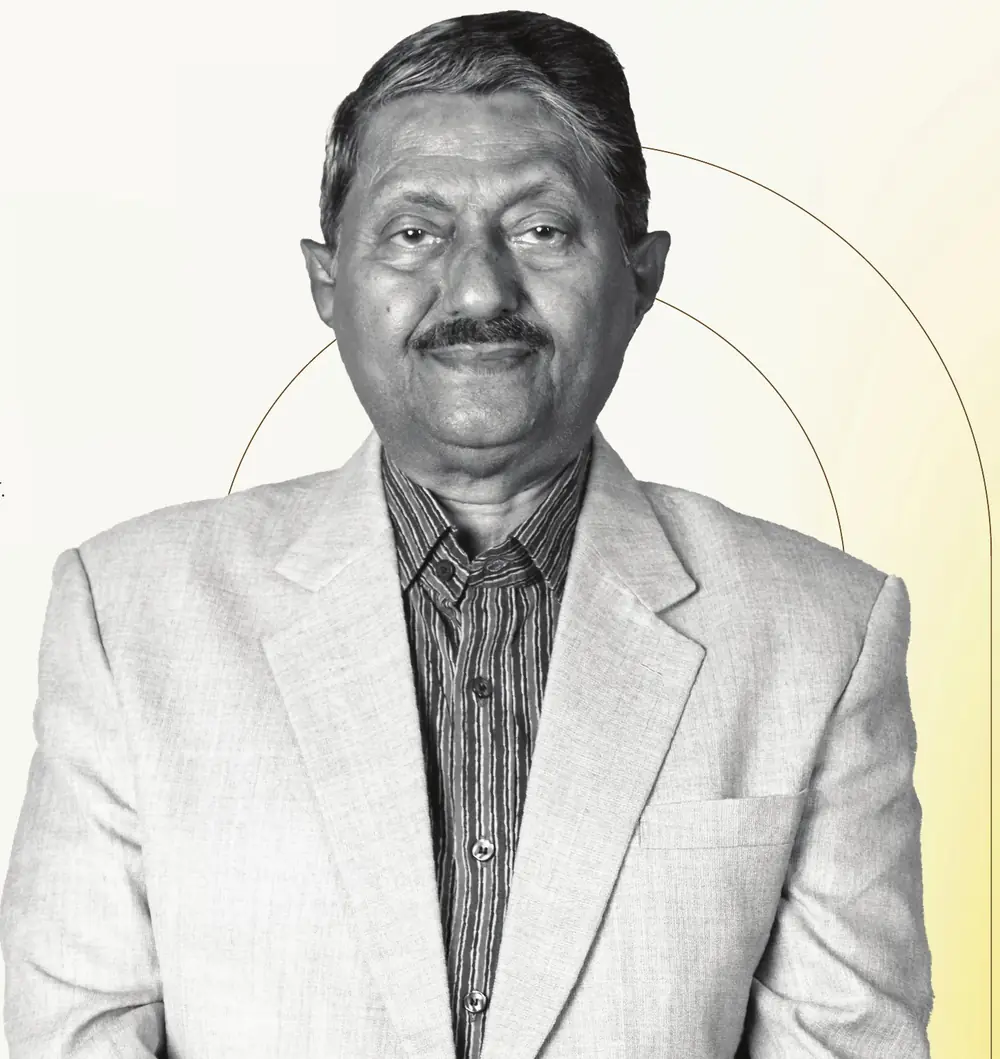
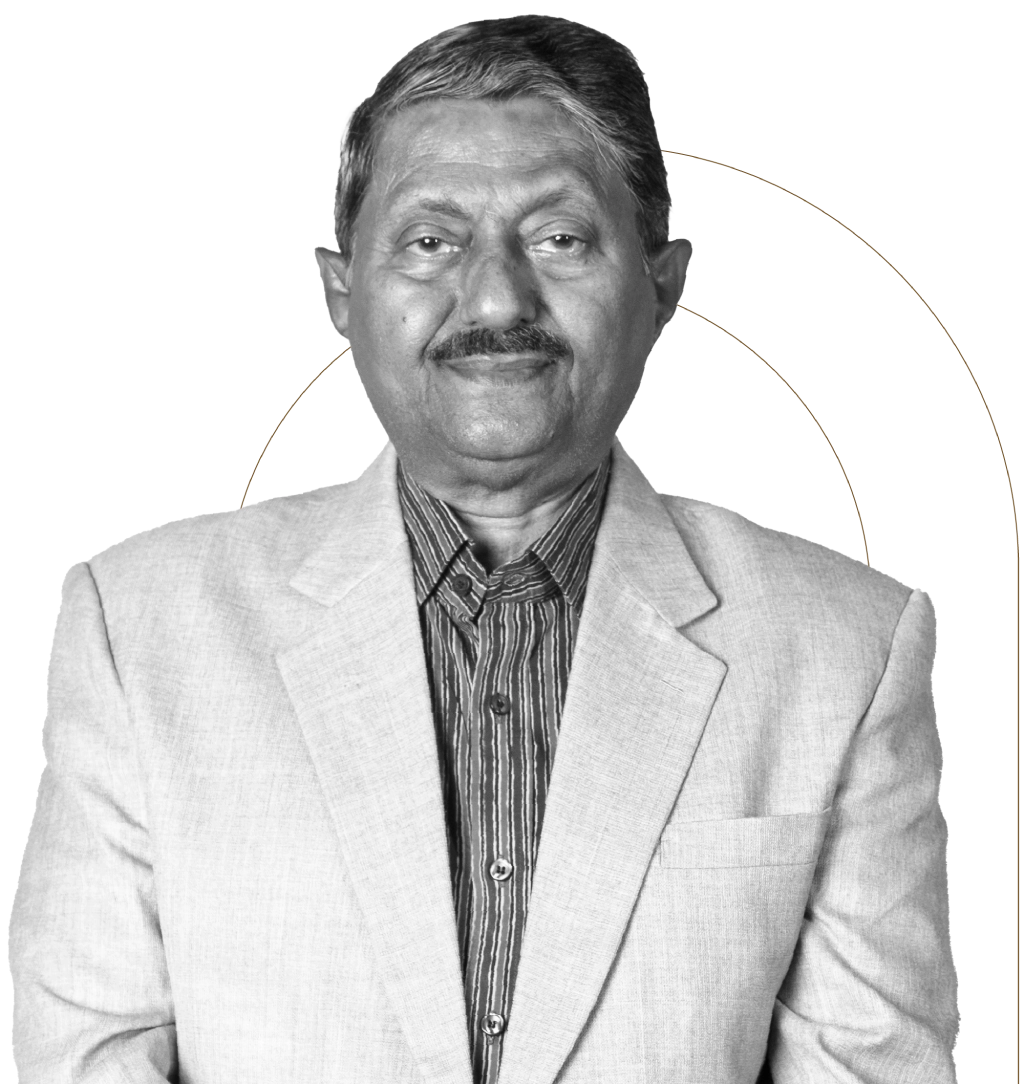
new chnages applied

diff --git a/src/styles/global.css b/src/styles/global.css
@@ -1,4 +1,6 @@
-
+/* Layout concept: the investor deck turned into a scroll — sunset-gradient
+   "cover" panels alternate with calm cream "slides"; arches, hairlines with
+   circle terminals and pill counters carry the deck's language onto the web. */
 @font-face{font-family:"Recife Display";src:local("Recife Display"),local("RecifeDisplay-Regular"),local("Recife Display Regular"),url("/fonts/RecifeDisplay-400.woff2") format("woff2");font-weight:400;font-display:swap}
 @font-face{font-family:"Recife Display";src:local("Recife Display Light"),local("RecifeDisplay-Light"),url("/fonts/RecifeDisplay-300.woff2") format("woff2");font-weight:300;font-display:swap}
 @font-face{font-family:"Recife Display";src:local("Recife Display Medium"),local("RecifeDisplay-Medium"),url("/fonts/RecifeDisplay-500.woff2") format("woff2");font-weight:500;font-display:swap}
@@ -133,12 +135,13 @@ p{margin:0}
 .hero-head{margin:auto 0}
 .hero-head .kicker{margin-bottom:clamp(14px,3svh,32px)}
 
-/* One composition on every screen: the headline is a 9em-wide block that scales with the content width
-   (100cqw / 9), so "Live [film] free." sits left and "Age gracefully." hangs right in the same proportions
-   from phone to 4K. On short, wide windows it's capped by height and the whole block just shrinks. */
-.hero h1{margin:0;width:9em;max-width:100%;font-size:min(calc(100cqw / 9),21svh);font-weight:300;line-height:.9;letter-spacing:-.04em}
+/* One composition on every screen: line 1 "Live [film] free." starts flush left, line 2 "Age gracefully."
+   is indented 1.55em under it (a gentle stagger, not pushed to the far right). The block is 7.2em wide and
+   scales with the content width (100cqw / 7.2), so the stagger holds from phone to 4K; on short windows the
+   height cap (19svh) wins and the whole block just shrinks. Tweak the stagger with --l2-indent. */
+.hero h1{--l2-indent:1.55em;margin:0;width:7.2em;max-width:100%;font-size:min(calc(100cqw / 7.2),19svh);font-weight:300;line-height:1.04;letter-spacing:-.04em}
 .hl{display:block}
-.hl.l2{text-align:right;color:var(--sun)}
+.hl.l2{padding-left:var(--l2-indent);color:var(--sun)}
 .hw{display:inline-block;overflow:hidden;vertical-align:top;padding:.06em .08em .18em 0;margin:-.06em -.08em -.18em 0}
 .hw>span{display:block;transform:translateY(112%) rotate(5deg);transform-origin:0 100%}
 .hero.go .hw>span{animation:hrise 1.35s var(--ease) both;animation-delay:var(--d,0s)}
@@ -238,21 +241,34 @@ html[data-hero-pin="on"] .mcta.show{transform:translateY(110%)}
   mask-image:linear-gradient(to right,transparent,#000 14%,#000 86%,transparent),linear-gradient(to bottom,transparent,#000 7%,#000 88%,transparent);
   mask-composite:intersect}
 .gstats{--num:clamp(3rem,5.4vw,5.2rem);position:relative;z-index:2;display:grid;gap:clamp(48px,8vw,140px)}
-.gstat{position:relative;display:grid;gap:6px}
+.gstat{position:relative;display:grid}
+.gtext{display:grid;gap:6px}
 .gstat b{font:400 var(--num)/1 var(--display);color:var(--crimson);letter-spacing:-.03em}
 .gstat b small{font:500 .36em var(--display);letter-spacing:0;margin-left:.2em}
 .gstat span{font-weight:700;font-size:1.06rem}
 .gstat i{font-style:normal;color:var(--ink-soft);font-size:.96rem}
 .gstat .conn{display:none}
 @media (min-width:1000px){
-  /* both columns are mirror images: text hugs the render, a ringed connector links it to the building */
-  .gstats{--gap:24px;--reach:46px}
-  .gstats.l .gstat{padding-right:44px;text-align:right;justify-items:end}
-  .gstats.r .gstat{padding-left:44px}
-  .gstat .conn{display:block;position:absolute;top:calc(var(--num) * .5);height:1.5px;background:var(--crimson);
-    width:calc(var(--gap) + var(--reach));transform:scaleX(0);transition:transform 1.2s var(--ease)}
-  .gstats.l .gstat .conn{left:calc(100% - var(--gap));transform-origin:left}
-  .gstats.r .gstat .conn{right:calc(100% - var(--gap));transform-origin:right}
+  /* both columns are mirror images: the stats sit at the outer edges of the page and a ringed
+     connector stretches across the leftover space to the building, so the lines grow with the
+     screen instead of leaving blank space on the sides.
+     Each column is a 2-track grid (text | line); the stats share it via subgrid, so the two numbers
+     in a column stay aligned and their lines are the same length. */
+  /* --bal (set by Glance.jsx): the left stats are narrower than the right ones, which leaves more blank
+     space on the left. Slide the whole grid left by half the difference so both outer margins match. */
+  .glance-grid{transform:translateX(calc(-1 * var(--bal, 0px)))}
+  .gstats{--gap:20px;--reach:46px;--min-line:44px;column-gap:0}
+  .gstats.l{grid-template-columns:var(--tw,max-content) minmax(var(--min-line),1fr)}
+  .gstats.r{grid-template-columns:minmax(var(--min-line),1fr) var(--tw,max-content)}
+  .gstat{grid-column:1/-1;grid-template-columns:subgrid}
+  .gtext{width:max-content}
+  .gstat b{white-space:nowrap}
+  .gstats.l .gtext{grid-column:1;justify-self:end;text-align:right;justify-items:end}
+  .gstats.r .gtext{grid-column:2;justify-self:start}
+  .gstat .conn{display:block;position:relative;grid-row:1;align-self:start;margin-top:calc(var(--num) * .5);height:1.5px;background:var(--crimson);
+    transform:scaleX(0);transition:transform 1.2s var(--ease)}
+  .gstats.l .gstat .conn{grid-column:2;margin-left:var(--gap);margin-right:calc(-1 * var(--reach));transform-origin:left}
+  .gstats.r .gstat .conn{grid-column:1;margin-right:var(--gap);margin-left:calc(-1 * var(--reach));transform-origin:right}
   /* ring at the text end */
   .gstat .conn::before{content:"";position:absolute;top:-6px;width:13px;height:13px;border-radius:50%;border:1.5px solid var(--crimson);background:#FBF4E4}
   .gstats.l .conn::before{left:-12px}
@@ -320,16 +336,21 @@ html[data-hero-pin="on"] .mcta.show{transform:translateY(110%)}
 .lift b{color:#FFF8E6}
 .lv-right{padding:clamp(72px,10vw,150px) var(--gutr) clamp(72px,10vw,150px) var(--gut)}
 @media (min-width:1000px){.lv-right{padding-left:80px;padding-right:max(56px,env(safe-area-inset-right,0px))}}
-.tl{position:relative;list-style:none;margin:0;padding:0}
-.tl::before{content:"";position:absolute;left:11px;top:14px;bottom:14px;width:1.5px;background:var(--line)}
-.tl::after{content:"";position:absolute;left:11px;top:14px;width:1.5px;background:var(--crimson);height:var(--h,0%);max-height:calc(100% - 28px);transition:height .2s linear}
+.tl{--ico:clamp(50px,4.4vw,62px);position:relative;list-style:none;margin:0;padding:0}
+/* rail + fill run between the first and last dot centres (--t0 / --len / --fill set by Levels.jsx) */
+.tl::before{content:"";position:absolute;left:11px;top:var(--t0,18px);height:var(--len,0px);width:1.5px;background:var(--line)}
+.tl::after{content:"";position:absolute;left:11px;top:var(--t0,18px);width:1.5px;background:var(--crimson);height:var(--fill,0px);transition:height .2s linear}
 .tl>li{position:relative;padding:0 0 56px 64px}
 .tl>li:last-child{padding-bottom:0}
-.tl .node{position:absolute;left:0;top:6px;width:24px;height:24px;border-radius:50%;border:1.5px solid var(--crimson);background:var(--cream);transition:background .5s}
+.tl .node{position:absolute;left:0;top:calc(var(--ico) / 2 - 12px);width:24px;height:24px;border-radius:50%;border:1.5px solid var(--crimson);background:var(--cream);transition:background .5s}
 .tl .node::after{content:"";position:absolute;inset:5px;border-radius:50%;background:var(--crimson);transform:scale(0);transition:transform .6s var(--ease)}
 .tl li.on .node::after{transform:scale(1)}
-.tl .lvl{display:flex;align-items:baseline;gap:18px;flex-wrap:wrap}
-.tl .lvl b{font:300 clamp(2.4rem,4vw,3.4rem)/1 var(--display);color:var(--crimson);letter-spacing:-.02em;min-width:1.4em}
+.tl .lvl{display:flex;align-items:center;gap:clamp(14px,1.6vw,22px);flex-wrap:wrap}
+/* level icon badge (icons in Levels.jsx); fills red as its level becomes active, in step with the dot */
+.lv-ico{flex:none;display:grid;place-items:center;width:var(--ico);aspect-ratio:1;border-radius:50%;
+  background:var(--cream-2);border:1px solid var(--line);color:var(--crimson);transition:background .5s,color .5s,border-color .5s}
+.lv-ico svg{width:54%;height:54%}
+.tl li.on .lv-ico{background:var(--crimson);border-color:var(--crimson);color:#FFF8E6}
 .tl .lvl h3{font-size:var(--t-h3)}
 .tl p{color:var(--ink-soft);margin-top:10px;max-width:34em}
 .chips{display:flex;flex-wrap:wrap;gap:8px;margin-top:18px}

diff --git a/src/components/Levels.jsx b/src/components/Levels.jsx
@@ -3,20 +3,79 @@ import { Dash } from './Brand.jsx'
 import { LEVELS } from '../data/content.js'
 import { useScrollFrame } from '../hooks/SmoothScroll.jsx'
 
+/* One line icon per level, keyed by the level code in content.js (R, 4, 1–3, G, B).
+   24×24, stroke = currentColor, so the badge colour drives them. */
+const ico = { viewBox: '0 0 24 24', fill: 'none', stroke: 'currentColor', strokeWidth: 1.6, strokeLinecap: 'round', strokeLinejoin: 'round', 'aria-hidden': true }
+const LEVEL_ICONS = {
+  // Rooftop: open sky, a sun on the horizon
+  R: (
+    <svg {...ico}>
+      <path d="M3 17h18M6 20.5h12" />
+      <path d="M7.5 17a4.5 4.5 0 0 1 9 0" />
+      <path d="M12 7.5v2M5.6 10.4l1.4 1.4M18.4 10.4 17 11.8M2.8 13.6h1.8M19.4 13.6h1.8" />
+    </svg>
+  ),
+  // Fourth floor: dining, a plate with fork and knife
+  4: (
+    <svg {...ico}>
+      <circle cx="12" cy="12.5" r="4.6" />
+      <circle cx="12" cy="12.5" r="2.2" />
+      <path d="M3 3.5v4a1.5 1.5 0 0 0 3 0v-4M4.5 9v11.5" />
+      <path d="M21 3.5c-1.6.8-2.4 2.8-2.4 5.6V12h2.4v8.5" />
+    </svg>
+  ),
+  // Floors one to three: private homes
+  '1–3': (
+    <svg {...ico}>
+      <path d="M3 11 12 4l9 7" />
+      <path d="M5.5 9.3V20h13V9.3" />
+      <path d="M10 20v-5.2h4V20" />
+    </svg>
+  ),
+  // Ground floor: where care lives, a heart with a medical cross
+  G: (
+    <svg {...ico}>
+      <path d="M12 20.2s-7.5-4.6-7.5-10.4A4.1 4.1 0 0 1 12 7.4a4.1 4.1 0 0 1 7.5 2.4c0 5.8-7.5 10.4-7.5 10.4Z" />
+      <path d="M12 10.2v5.2M9.4 12.8h5.2" />
+    </svg>
+  ),
+  // Basement: arrivals and parking, a car
+  B: (
+    <svg {...ico}>
+      <path d="M5.2 17H3.5v-4l2-5.2h13l2 5.2v4h-1.7" />
+      <path d="M9.4 17h5.2M3.8 12.6h16.4" />
+      <circle cx="7.3" cy="17" r="2" />
+      <circle cx="16.7" cy="17" r="2" />
+    </svg>
+  ),
+}
+
 export default function Levels() {
   const list = useRef(null)
-  const [fill, setFill] = useState(0)
   const [active, setActive] = useState(-1)
 
+  /* The rail runs from the centre of the first dot to the centre of the last dot (nothing below it).
+     The red fill follows a trigger line at 60% of the screen and reaches each dot exactly as that
+     dot switches on, so it stops on the last dot instead of running to the end of the list. */
   useScrollFrame(() => {
     const el = list.current
     if (!el) return
+    const nodes = el.querySelectorAll(':scope > li > .node')
+    if (!nodes.length) return
     const vh = window.innerHeight
-    const r = el.getBoundingClientRect()
-    setFill(Math.min(1, Math.max(0, (vh * 0.6 - r.top) / r.height)))
+    const trigger = vh * 0.6
+    const top = el.getBoundingClientRect().top
+    const centre = (n) => { const r = n.getBoundingClientRect(); return r.top + r.height / 2 }
+    const first = centre(nodes[0])
+    const last = centre(nodes[nodes.length - 1])
+    const len = Math.max(0, last - first)
+    const fill = Math.min(len, Math.max(0, trigger - first))
+    el.style.setProperty('--t0', `${first - top}px`)
+    el.style.setProperty('--len', `${len}px`)
+    el.style.setProperty('--fill', `${fill}px`)
     let a = -1
-    el.querySelectorAll(':scope > li').forEach((li, i) => { if (li.getBoundingClientRect().top < vh * 0.6) a = i })
-    setActive(a)
+    nodes.forEach((n, i) => { if (centre(n) <= trigger) a = i })
+    setActive((prev) => (prev === a ? prev : a))
   })
 
   return (
@@ -34,11 +93,11 @@ export default function Levels() {
         </div>
       </div>
       <div className="lv-right">
-        <ol className="tl" ref={list} style={{ '--h': `${fill * 100}%` }}>
+        <ol className="tl" ref={list}>
           {LEVELS.map((l, i) => (
             <li key={l.k} className={i <= active ? 'on' : undefined}>
               <span className="node" />
-              <div className="lvl"><b>{l.k}</b><h3>{l.name}</h3></div>
+              <div className="lvl"><span className="lv-ico">{LEVEL_ICONS[l.k]}</span><h3>{l.name}</h3></div>
               <p>{l.text}</p>
               <div className="chips">{l.chips.map((c) => <span key={c}>{c}</span>)}</div>
             </li>

diff --git a/src/components/Glance.jsx b/src/components/Glance.jsx
@@ -1,16 +1,42 @@
+import { useEffect, useRef } from 'react'
 import { Dash, Kicker } from './Brand.jsx'
 import archBuilding from '../assets/img/arch-building.webp'
 
 const Stat = ({ big, unit, label, note, d }) => (
   <div className="gstat rv" style={d ? { '--d': d } : undefined}>
-    <b>{big}{unit && <small>{unit}</small>}</b>
-    <span>{label}</span>
-    <i>{note}</i>
-    <span className="conn" />
+    <div className="gtext">
+      <b>{big}{unit && <small>{unit}</small>}</b>
+      <span>{label}</span>
+      <i>{note}</i>
+    </div>
+    <span className="conn" aria-hidden="true" />
   </div>
 )
 
 export default function Glance() {
+  /* Give both side columns the width of the widest stat (--tw), so the left and right
+     connector lines come out the same length and the layout stays mirrored.
+     --bal = half the difference between the widest right stat and the widest left stat: the grid
+     slides left by that much so the blank space on the far left and far right comes out equal. */
+  const grid = useRef(null)
+  useEffect(() => {
+    const g = grid.current
+    if (!g) return
+    const texts = [...g.querySelectorAll('.gtext')]
+    const fit = () => {
+      const w = (sel) => Math.max(0, ...[...g.querySelectorAll(sel)].map((t) => t.offsetWidth))
+      const lw = w('.gstats.l .gtext'), rw = w('.gstats.r .gtext')
+      g.style.setProperty('--tw', `${Math.ceil(Math.max(lw, rw))}px`)
+      g.style.setProperty('--bal', `${Math.round((rw - lw) / 2)}px`)
+    }
+    fit()
+    document.fonts?.ready.then(fit)
+    if (typeof ResizeObserver === 'undefined') return
+    const ro = new ResizeObserver(fit)
+    texts.forEach((t) => ro.observe(t))
+    return () => ro.disconnect()
+  }, [])
+
   return (
     <section className="glance sec" id="building">
       <div className="wrap">
@@ -22,7 +48,7 @@ export default function Glance() {
           </div>
           <div className="pill-status rv">Status: <b>Under construction</b></div>
         </div>
-        <div className="glance-grid">
+        <div className="glance-grid" ref={grid}>
           <div className="gstats l">
             <Stat big="30" unit="cents" label="Site area" note="On Malampuzha Road, Palakkad" />
             <Stat big="42" label="Studio residences" note="Sizes vary by home" d=".1s" />

diff --git a/src/App.jsx b/src/App.jsx
@@ -29,18 +29,17 @@ function Page() {
       <Nav />
       <main id="top">
         <Hero />
-        <Statement />
-        <Idea />
         <Glance />
         <Gallery />
         <Levels />
         <FloorPlans onAskAbout={askAbout} />
-        <Care />
-        <Day />
         <LocationProgress />
+        <Statement />
+        <Idea />
+        <Care />
         <Vision />
         <FamiliesFaq />
-        <Visit mode={mode} setMode={setMode} prefill={prefill} />
+
       </main>
       <Footer />
     </>
